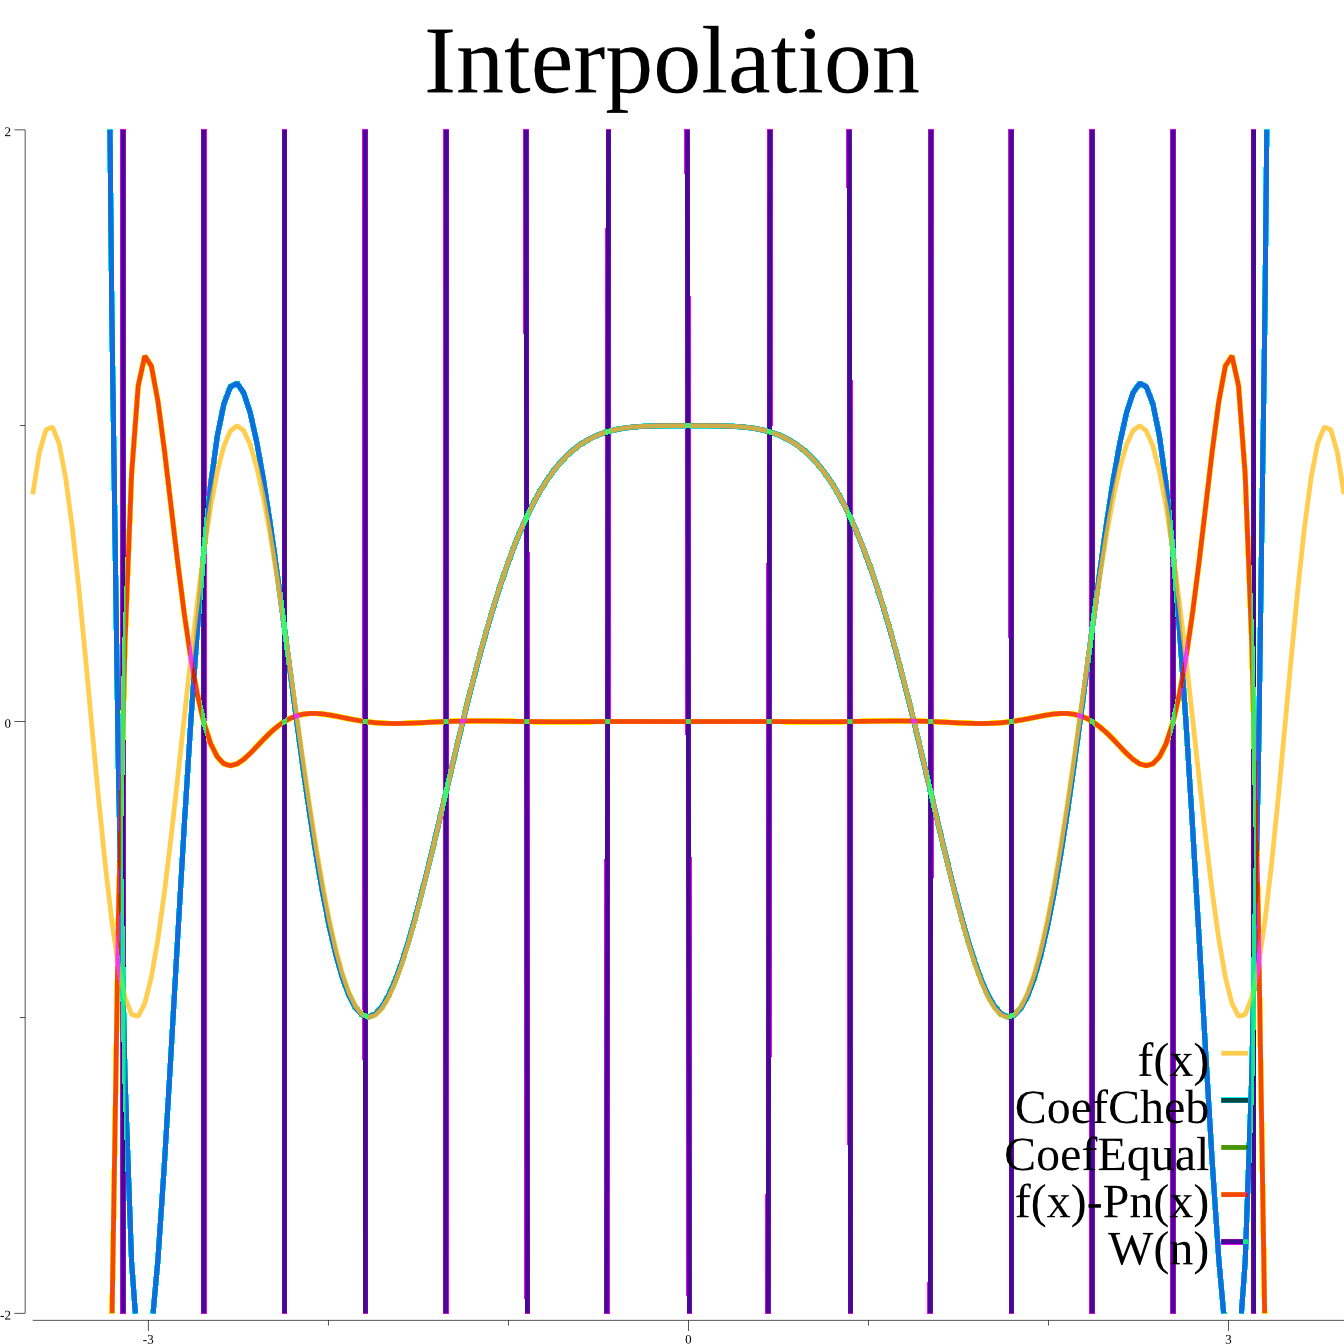
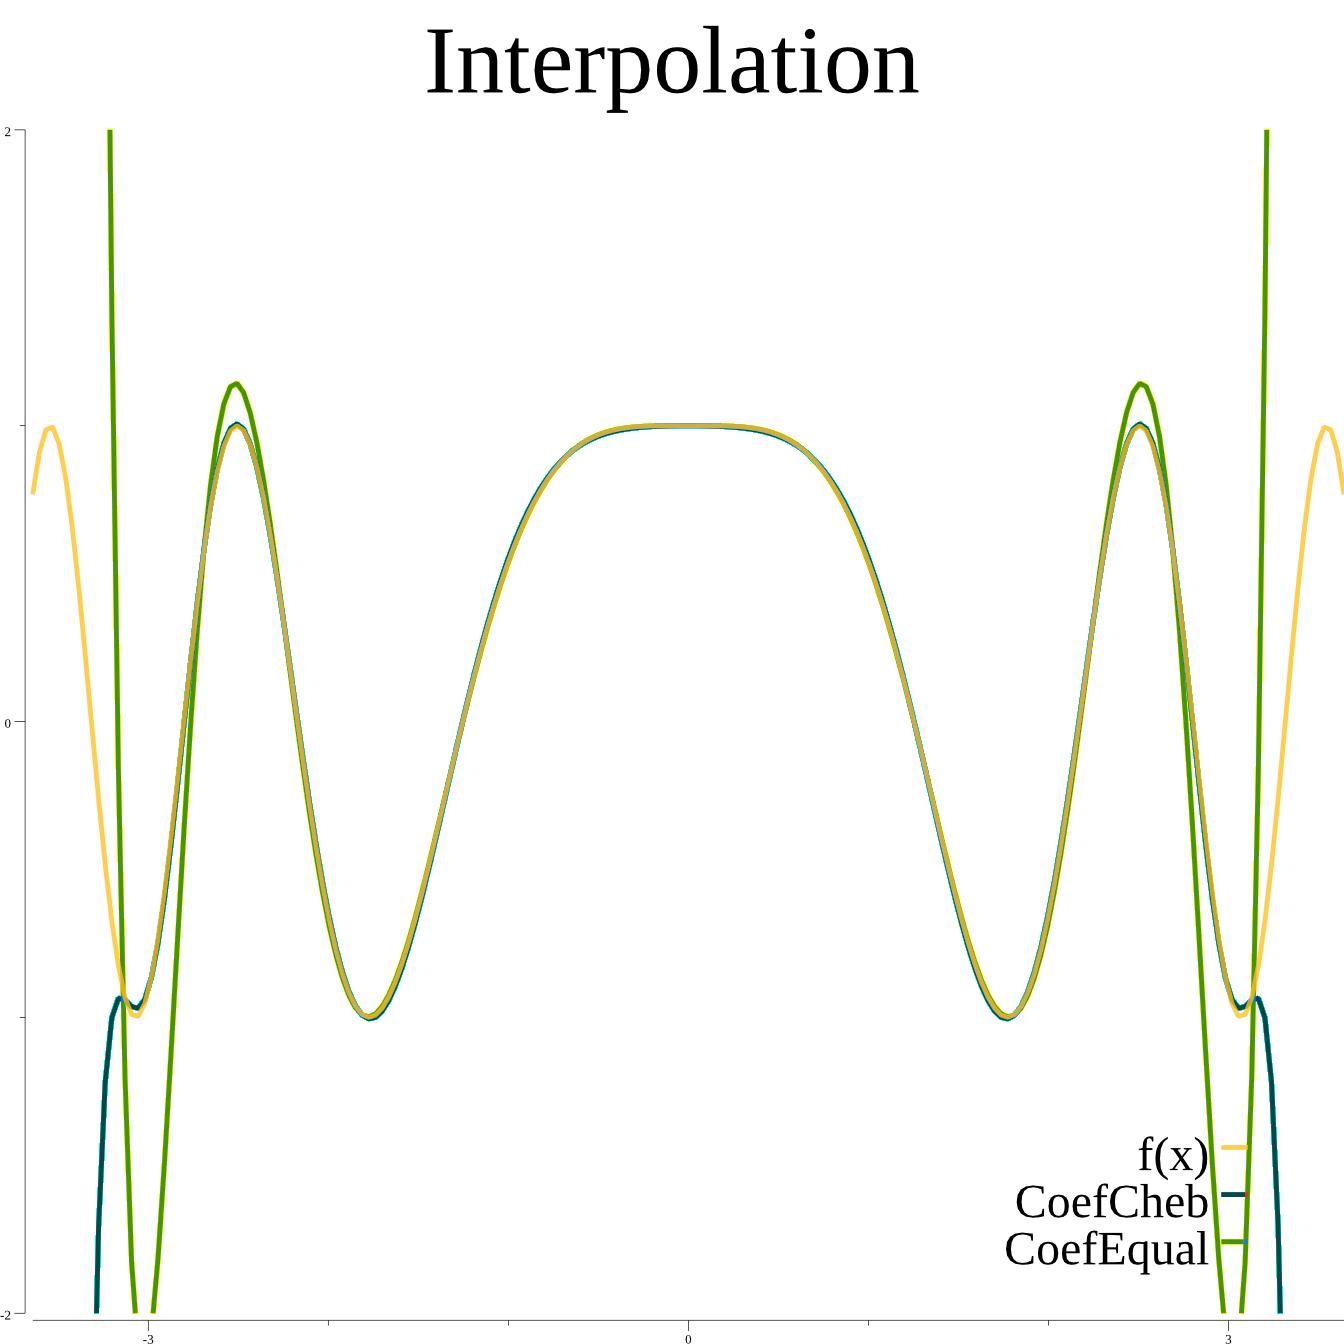
Modified lab

Changed region(s): [[0.0625, 0.0938, 0.9688, 1.0]]

diff --git a/Cheb.go b/Cheb.go
@@ -10,10 +10,13 @@ import (
 	"gonum.org/v1/plot/vg"
 )
 
-const a = -1 * math.Pi
+const a = -math.Pi
+
+//const a = 2 * math.Pi / 3
+//const a = 0
 const b = math.Pi
 
-func secCheb(n int) []float64 {
+func secCheb(a, b float64, n int) []float64 {
 	var x []float64
 	c1 := float64((a + b) / 2)
 	c2 := float64((b - a) / 2)
@@ -24,7 +27,7 @@ func secCheb(n int) []float64 {
 	return x
 }
 
-func secEqualRem(n int) []float64 {
+func secEqualRem(a, b float64, n int) []float64 {
 	var x []float64
 	h := float64(b-a) / float64(n-1)
 	for k := 0; k < n; k++ {
@@ -38,18 +41,10 @@ func f(x float64) float64 {
 	return math.Cos(x)
 }
 
-func y(x []float64) [][]float64 {
-	var y [][]float64
-	n := len(x)
-	for i := 0; i < n; i++ {
-		y = append(y, []float64{})
-		for j := 0; j < n; j++ {
-			if j == 0 {
-				y[i] = append(y[i], f(x[i]))
-			} else {
-				y[i] = append(y[i], 0)
-			}
-		}
+func yFromX(x []float64, f func(float64) float64) []float64 {
+	y := make([]float64, len(x))
+	for i, v := range x {
+		y[i] = f(v)
 	}
 	return y
 }
@@ -66,36 +61,58 @@ func sub(a func(x float64) float64, b func(y float64) float64) func(float64) flo
 	}
 }
 
+func hand(x float64) float64 {
+	return 1.77 + (x+1.)*(-0.5) + (x+1.)*(x-0.17)*(-0.13) + (x+1.)*(x-0.17)*(x-0.93)*5.6
+}
+
 func main() {
+	fmt.Println(0, math.Sqrt(math.Pi))
+	x0 := secEqualRem(0, math.Sqrt(math.Pi), 4)
+	y0 := yFromX(x0, f)
 
-	x1 := secEqualRem(15)
-	y1 := y(x1)
-	f1 := polWithValue(y1, x1)
-	dividedDiffTable(x1, y1)
-	printPol(y1, x1)
-	//PrintTableDiv(y1)
+	for i := 0; i < len(x0)/2; i++ {
+		x0[i], x0[len(x0)-1-i] = x0[len(x0)-1-i], x0[i]
+		y0[i], y0[len(y0)-1-i] = y0[len(y0)-1-i], y0[i]
+	}
+
+	//x0 = []float64{0.880, 0.881, 0.882, 0.883}
+	//y0 = []float64{2.4109, 2.4133, 2.4157, 2.41181}
+
+	fmt.Printf(" \n")
+
+	fmt.Println(x0)
+	fmt.Println(y0)
+
+	yz := 1. / 3
+	//yz = 2.4142
+	intF := BuildInterpolationFunction(y0, x0)
+	xz := intF(yz)
+
+	fmt.Printf("Q(%.2f)  = %.2f\n", yz, xz)
+
+	fmt.Printf("f(x) - f(x*)  = %3.5f\n", yz-f(xz))
 
 	fmt.Print("\n")
 
-	xb := secEqualRem(7)
-	yb := y(xb)
-	backwardDiffTable(xb, yb)
-	//PrintBackwardTableDiv(yb)
-	fmt.Printf("f(x*) = %3.5f\n", polByBackWithValue(yb, xb)(0.))
-	//fmt.Printf("%3.3f\n")
+	xR := []float64{1.69, 1.73, 1.77, 1.82, 1.85}
+	yR := yFromX(xR, f)
 
-	fmt.Printf("f(x)  = %3.5f\n", math.Cos(math.Pow(0, 2)))
+	intR := BuildInterpolationFunction(yR, xR)
+	xr := intR(yz)
 
-	fmt.Printf("f(x) - f(x*)  = %3.5f\n", math.Cos(math.Pow(0, 2))-polByBackWithValue(yb, xb)(0.))
+	fmt.Printf("Q(%.2f)  = %.2f\n", yz, xr)
+
+	fmt.Printf("f(x) - f(x*)  = %3.5f\n", yz-f(xr))
 
 	fmt.Print("\n")
 
-	x2 := secEqualRem(15)
-	y2 := y(x2)
-	f2 := polWithValue(y2, x2)
-	dividedDiffTable(x2, y2)
-	printPol(y2, x2)
-	//PrintTableDiv(y2)
+	x1 := secCheb(a, b, 15)
+	y1 := yFromX(x1, f)
+	f1 := BuildInterpolationFunction(x1, y1)
+
+	x2 := secEqualRem(a, b, 15)
+	y2 := yFromX(x2, f)
+	f2 := BuildInterpolationFunction(x2, y2)
 
 	fPol1 := plotter.NewFunction(f1)
 	fPol1.Color = color.RGBA{R: 209, G: 15, B: 15, A: 200}
@@ -107,27 +124,32 @@ func main() {
 	fPol2.Width = vg.Inch / 20
 	fPol2.Samples = 200
 
-	fPolsub := plotter.NewFunction(sub(func(x float64) float64 {
-		return math.Cos(x * x)
-	}, f1))
-	fPolsub.Color = color.RGBA{R: 190, G: 15, B: 209, A: 200}
-	fPolsub.Width = vg.Inch / 20
-	fPolsub.Samples = 200
+	fInt := plotter.NewFunction(intF)
+	fInt.Color = color.RGBA{R: 255, G: 0, B: 0, A: 200}
+	fInt.Width = vg.Inch / 20
+	fInt.Samples = 200
 
-	PolW := plotter.NewFunction(func(x float64) float64 {
-		res := 1.
-		for i := 0; i < len(x1); i++ {
-			res *= x - x1[i]
+	fIntArk := plotter.NewFunction(func(x float64) float64 {
+		if x < -1 || x > 1 {
+			return 0
 		}
-		return res
+		return math.Sqrt(math.Acos(x))
 	})
-	PolW.Color = color.RGBA{R: 15, G: 209, B: 93, A: 200}
-	PolW.Width = vg.Inch / 20
-	PolW.Samples = 200
+	fIntArk.Color = color.RGBA{R: 0, G: 0, B: 255, A: 200}
+	fIntArk.Width = vg.Inch / 20
+	fIntArk.Samples = 200
 
-	fPolOrig := plotter.NewFunction(func(x float64) float64 {
-		return math.Cos(x * x)
-	})
+	fPolh := plotter.NewFunction(hand)
+	fPolh.Color = color.RGBA{R: 65, G: 103, B: 187, A: 200}
+	fPolh.Width = vg.Inch / 20
+	fPolh.Samples = 200
+
+	//fPolsub := plotter.NewFunction(sub(f, f1))
+	//fPolsub.Color = color.RGBA{R: 190, G: 15, B: 209, A: 200}
+	//fPolsub.Width = vg.Inch / 20
+	//fPolsub.Samples = 200
+
+	fPolOrig := plotter.NewFunction(f)
 	fPolOrig.Color = color.RGBA{R: 200, G: 150, B: 25, A: 200}
 	fPolOrig.Width = vg.Inch / 20
 	fPolOrig.Samples = 200
@@ -138,8 +160,10 @@ func main() {
 	pl.Add(fPol1)
 	pl.Add(fPol2)
 	pl.Add(fPolOrig)
-	pl.Add(fPolsub)
-	pl.Add(PolW)
+	//pl.Add(fInt)
+	//pl.Add(fIntArk)
+	//pl.Add(fPolh)
+	//pl.Add(fPolsub)
 
 	pl.Title.Text = "Interpolation"
 	pl.Title.Font.Size = vg.Inch
@@ -149,11 +173,10 @@ func main() {
 	pl.Legend.Add("f(x)", fPolOrig)
 	pl.Legend.Add("CoefCheb", fPol1)
 	pl.Legend.Add("CoefEqual", fPol2)
-	pl.Legend.Add("f(x)-Pn(x)", fPolsub)
-	pl.Legend.Add("W(n)", PolW)
+	//pl.Legend.Add("f(x)-Pn(x)", fPolsub)
 
 	if err := pl.Save(14*vg.Inch, 14*vg.Inch, "pol.png"); err != nil {
 		panic(err.Error())
-	}
 
+	}
 }

diff --git a/Graph.go b/Graph.go
@@ -1,0 +1,65 @@
+package main
+
+//import (
+//	"image/color"
+//	"math"
+//)
+//
+//	x1 := secEqualRem(15)
+//	y1 := y(x1)
+//	f1 := polWithValue(y1, x1)
+//	dividedDiffTable(x1, y1)
+//	printPol(y1, x1)
+//
+//	x2 := secEqualRem(15)
+//	y2 := y(x2)
+//	f2 := polWithValue(y2, x2)
+//	dividedDiffTable(x2, y2)
+//	printPol(y2, x2)
+//
+//	fPol1 := plotter.NewFunction(f1)
+//	fPol1.Color = color.RGBA{R: 209, G: 15, B: 15, A: 200}
+//	fPol1.Width = vg.Inch / 20
+//	fPol1.Samples = 200
+//
+//	fPol2 := plotter.NewFunction(f2)
+//	fPol2.Color = color.RGBA{R: 15, G: 93, B: 209, A: 200}
+//	fPol2.Width = vg.Inch / 20
+//	fPol2.Samples = 200
+//
+//	fPolsub := plotter.NewFunction(sub(func(x float64) float64 {
+//		return math.Cos(x * x)
+//	}, f1))
+//	fPolsub.Color = color.RGBA{R: 190, G: 15, B: 209, A: 200}
+//	fPolsub.Width = vg.Inch / 20
+//	fPolsub.Samples = 200
+//
+//	fPolOrig := plotter.NewFunction(func(x float64) float64 {
+//		return math.Cos(x * x)
+//	})
+//	fPolOrig.Color = color.RGBA{R: 200, G: 150, B: 25, A: 200}
+//	fPolOrig.Width = vg.Inch / 20
+//	fPolOrig.Samples = 200
+//
+//	pl, _ := plot.New()
+//	pl.X.Min, pl.X.Max = a-0.5, b+0.5
+//	pl.Y.Min, pl.Y.Max = -2, 2
+//	pl.Add(fPol1)
+//	pl.Add(fPol2)
+//	pl.Add(fPolOrig)
+//	pl.Add(fPolsub)
+//	pl.Add(PolW)
+//
+//	pl.Title.Text = "Interpolation"
+//	pl.Title.Font.Size = vg.Inch
+//	pl.Legend.Font.Size = vg.Inch / 2
+//	pl.Legend.XOffs = -vg.Inch
+//	pl.Legend.YOffs = vg.Inch / 2
+//	pl.Legend.Add("f(x)", fPolOrig)
+//	pl.Legend.Add("CoefCheb", fPol1)
+//	pl.Legend.Add("CoefEqual", fPol2)
+//	pl.Legend.Add("f(x)-Pn(x)", fPolsub)
+//	pl.Legend.Add("W(n)", PolW)
+//
+//	if err := pl.Save(14*vg.Inch, 14*vg.Inch, "pol.png"); err != nil {
+//		panic(err.Error())

diff --git a/NewtonDividedDiff.go b/NewtonDividedDiff.go
@@ -5,31 +5,32 @@ import (
 	"strings"
 )
 
-func dividedDiffTable(x []float64, y [][]float64) {
+func BuildInterpolationFunction(x, y []float64) func(float64) float64 {
+	var divTable [][]float64
 	n := len(x)
+
+	for i := 0; i < n; i++ {
+		divTable = append(divTable, []float64{})
+		for j := 0; j < n; j++ {
+			if j == 0 {
+				divTable[i] = append(divTable[i], y[i])
+			} else {
+				divTable[i] = append(divTable[i], 0)
+			}
+		}
+	}
+
 	for i := 1; i < n; i++ {
 		for j := 0; j < n-i; j++ {
-			y[j][i] = (y[j][i-1] - y[j+1][i-1]) / (x[j] - x[i+j])
+			divTable[j][i] = (divTable[j+1][i-1] - divTable[j][i-1]) / (x[i+j] - x[j])
 		}
 	}
-}
 
-func PrintTableDiv(y [][]float64) {
-	n := len(y)
-	for i := 0; i < n; i++ {
-		for j := 0; j < n-i; j++ {
-			fmt.Printf("% 3.3f\t", y[i][j])
-		}
-		fmt.Printf("\n")
-	}
-}
-
-func polWithValue(y [][]float64, x []float64) func(float64) float64 {
 	return func(value float64) float64 {
-		res := y[0][0]
+		res := divTable[0][0]
 		n := len(y)
 		for i := 1; i < n; i++ {
-			t := y[0][i]
+			t := divTable[0][i]
 			for j := 0; j < i; j++ {
 				t *= value - x[j]
 			}
@@ -37,6 +38,7 @@ func polWithValue(y [][]float64, x []float64) func(float64) float64 {
 		}
 		return res
 	}
+
 }
 
 func printPol(y [][]float64, x []float64) {
